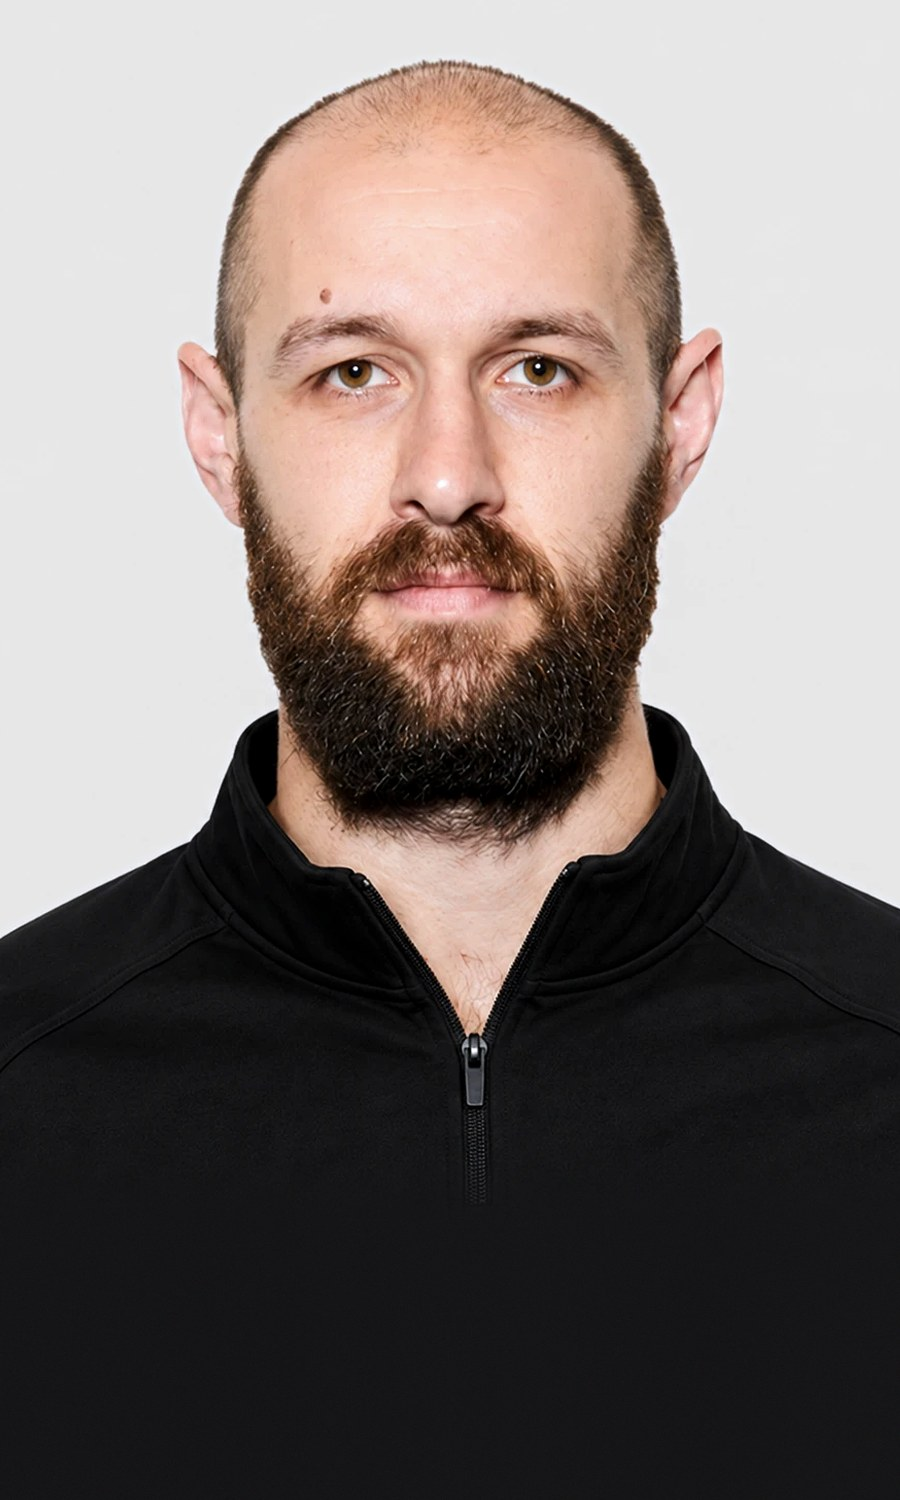
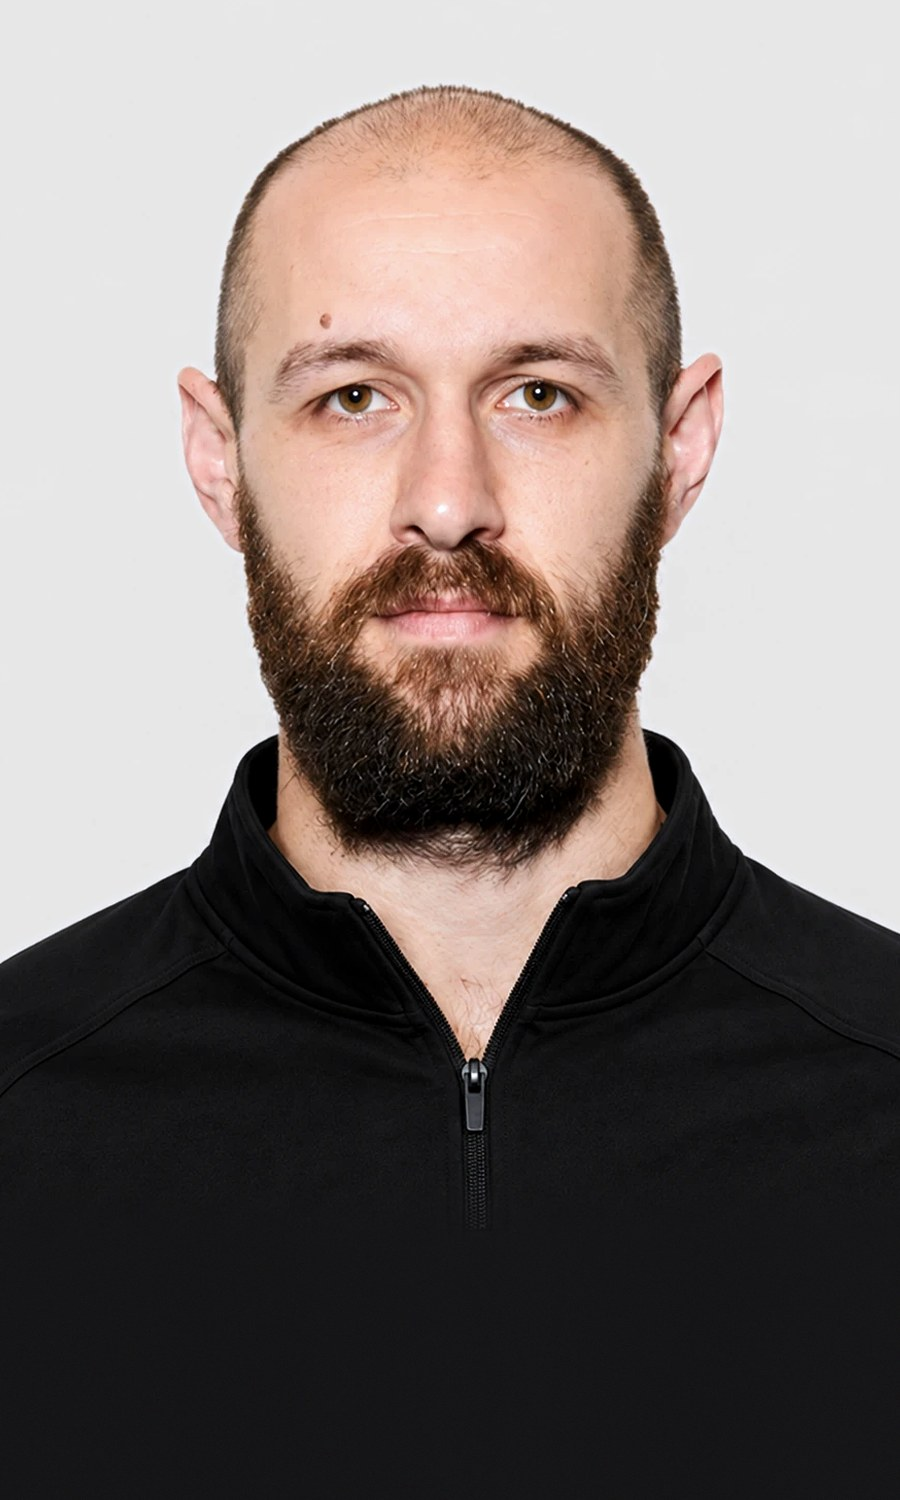
About: Rhys headshot nudged down

Changed region(s): [[0.0, 0.0307, 1.0, 0.7667]]

diff --git a/about.html b/about.html
@@ -432,7 +432,7 @@ src="https://www.facebook.com/tr?id=846020845059569&ev=PageView&noscript=1"
       <div class="coach-card coach-card--7">
         <div class="coach-card-frame">
           <div class="coach-card-photo photo">
-            <img src="images/coach-rhys-martin.jpg?v=8" alt="Rhys Martin, Senior Basketball Trainer at The Courts" width="900" height="1500" loading="lazy" decoding="async">
+            <img src="images/coach-rhys-martin.jpg?v=9" alt="Rhys Martin, Senior Basketball Trainer at The Courts" width="900" height="1500" loading="lazy" decoding="async">
             <span class="coach-card-corner"></span>
           </div>
           <div class="coach-card-body">
